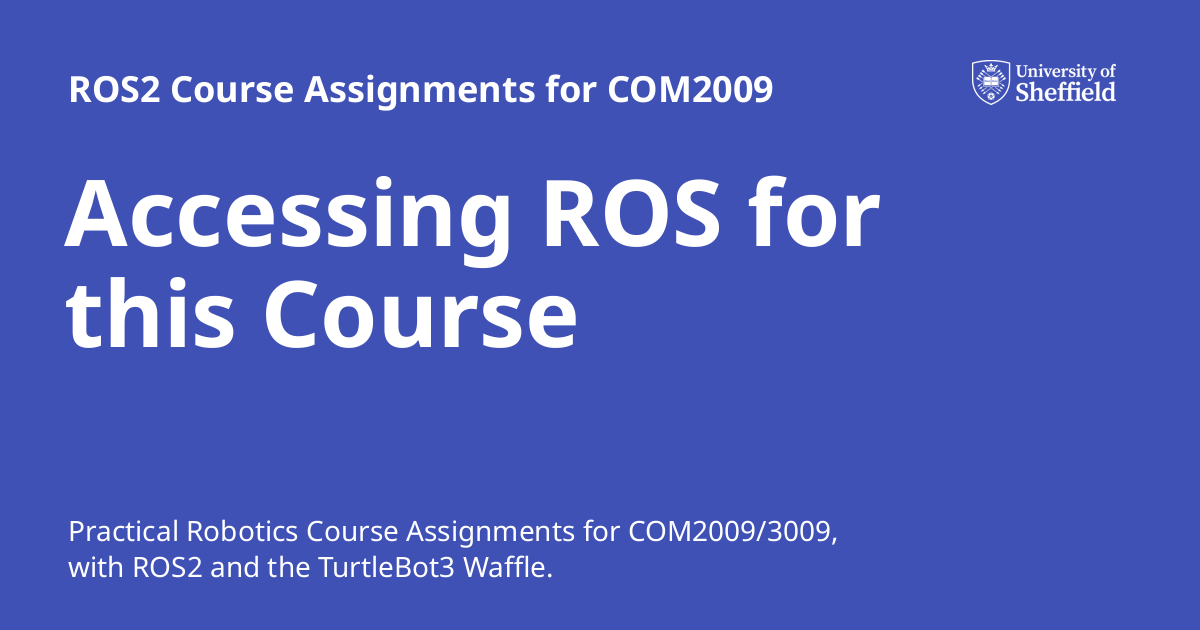
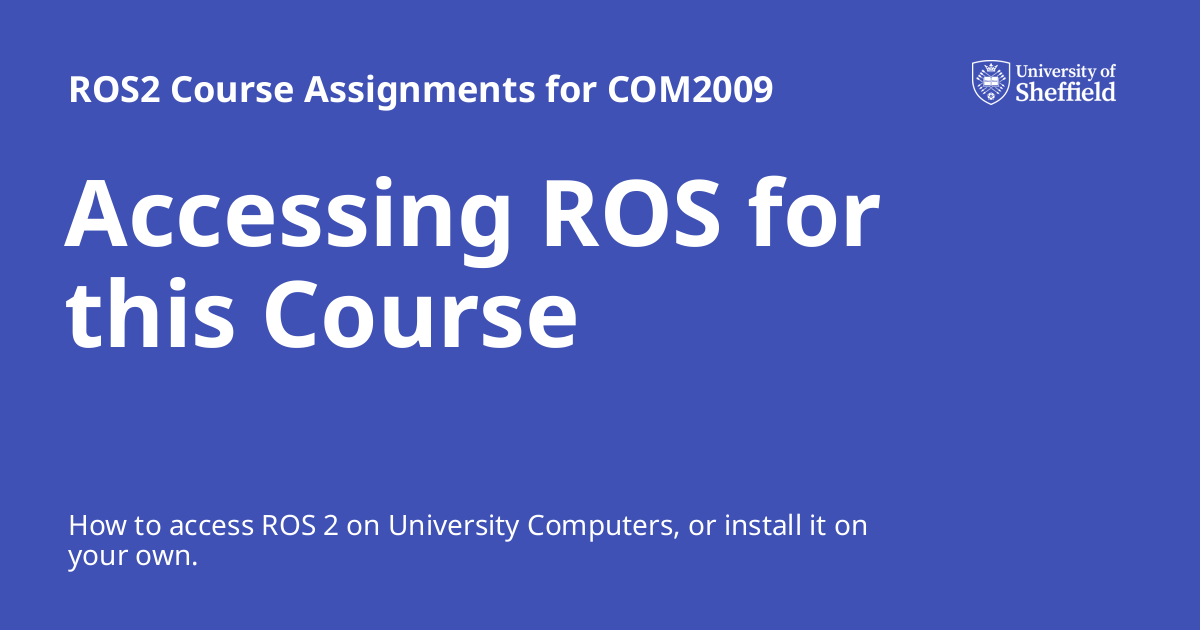
Deployed 76af54f with MkDocs version: 1.6.1

Changed region(s): [[0.0617, 0.8143, 0.74, 0.9349]]

diff --git a/ros/index.html b/ros/index.html
@@ -6,7 +6,7 @@
       <meta charset="utf-8">
       <meta name="viewport" content="width=device-width,initial-scale=1">
       
-        <meta name="description" content="Practical Robotics Course Assignments for COM2009/3009, with ROS2 and the TurtleBot3 Waffle.">
+        <meta name="description" content="How to access ROS 2 on University Computers, or install it on your own.">
       
       
       
@@ -65,7 +65,7 @@
       
         <meta  property="og:title"  content="Accessing ROS for this Course - ROS2 Course Assignments for COM2009" >
       
-        <meta  property="og:description"  content="Practical Robotics Course Assignments for COM2009/3009, with ROS2 and the TurtleBot3 Waffle." >
+        <meta  property="og:description"  content="How to access ROS 2 on University Computers, or install it on your own." >
       
         <meta  property="og:image"  content="https://tom-howard.github.io/com2009/assets/images/social/ros/README.png" >
       
@@ -81,7 +81,7 @@
       
         <meta  name="twitter:title"  content="Accessing ROS for this Course - ROS2 Course Assignments for COM2009" >
       
-        <meta  name="twitter:description"  content="Practical Robotics Course Assignments for COM2009/3009, with ROS2 and the TurtleBot3 Waffle." >
+        <meta  name="twitter:description"  content="How to access ROS 2 on University Computers, or install it on your own." >
       
         <meta  name="twitter:image"  content="https://tom-howard.github.io/com2009/assets/images/social/ros/README.png" >
       
@@ -1930,7 +1930,7 @@
     <span class="md-icon" title="Last update">
       <svg xmlns="http://www.w3.org/2000/svg" viewBox="0 0 24 24"><path d="M21 13.1c-.1 0-.3.1-.4.2l-1 1 2.1 2.1 1-1c.2-.2.2-.6 0-.8l-1.3-1.3c-.1-.1-.2-.2-.4-.2m-1.9 1.8-6.1 6V23h2.1l6.1-6.1zM12.5 7v5.2l4 2.4-1 1L11 13V7zM11 21.9c-5.1-.5-9-4.8-9-9.9C2 6.5 6.5 2 12 2c5.3 0 9.6 4.1 10 9.3-.3-.1-.6-.2-1-.2s-.7.1-1 .2C19.6 7.2 16.2 4 12 4c-4.4 0-8 3.6-8 8 0 4.1 3.1 7.5 7.1 7.9l-.1.2z"/></svg>
     </span>
-    <span class="git-revision-date-localized-plugin git-revision-date-localized-plugin-timeago"><span class="timeago" datetime="2025-02-14T13:21:41+00:00" locale="en"></span></span><span class="git-revision-date-localized-plugin git-revision-date-localized-plugin-iso_date">2025-02-14</span>
+    <span class="git-revision-date-localized-plugin git-revision-date-localized-plugin-timeago"><span class="timeago" datetime="2025-02-14T14:46:03+00:00" locale="en"></span></span><span class="git-revision-date-localized-plugin git-revision-date-localized-plugin-iso_date">2025-02-14</span>
   </span>
 
     
